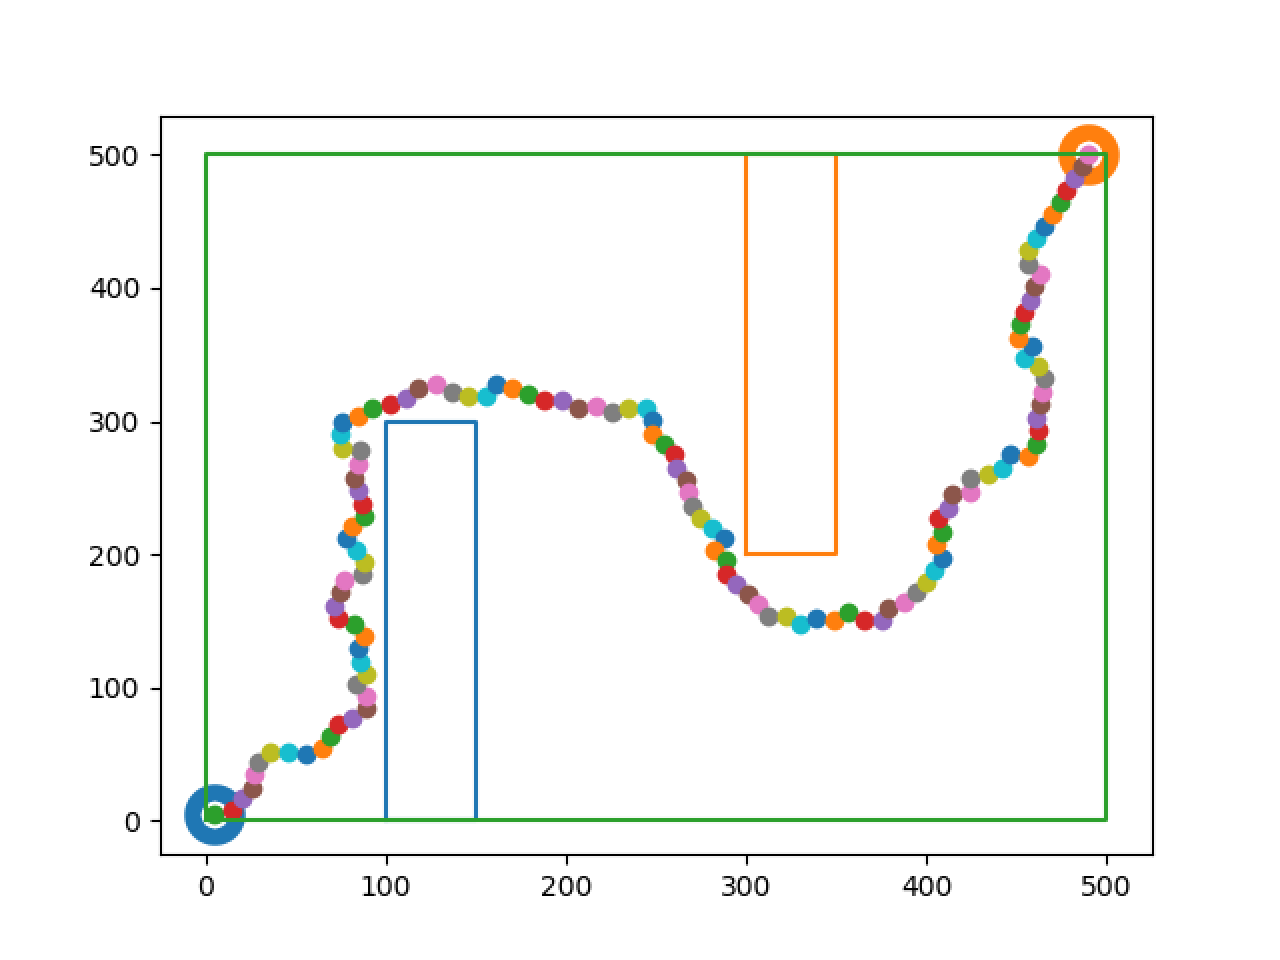
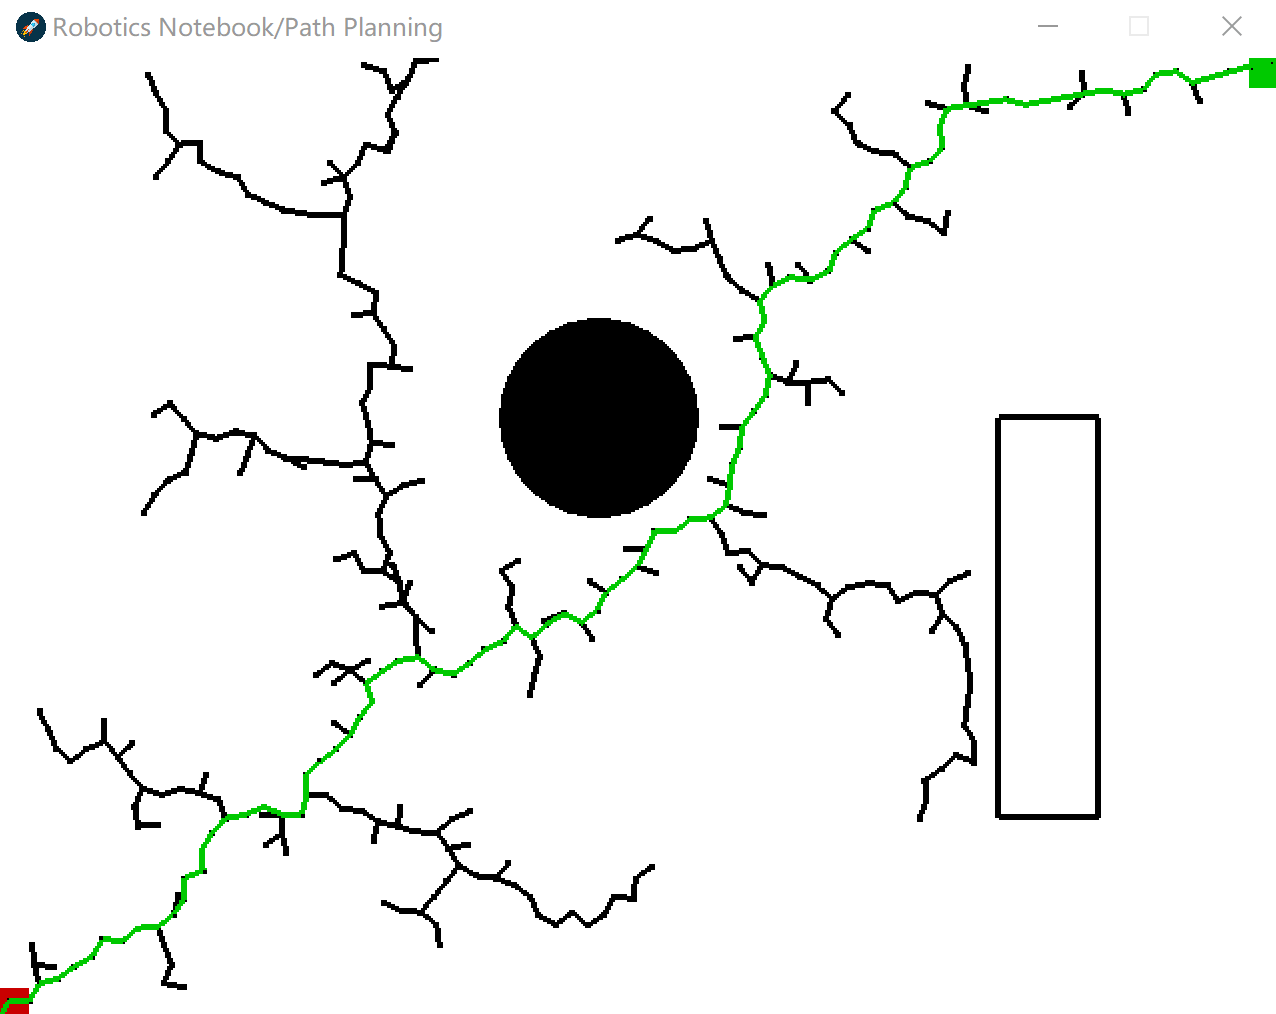
use new gui in rrt

diff --git a/PathPlanning/render.py b/PathPlanning/render.py
@@ -18,6 +18,7 @@ except ImportError as err:
     ''')
 
 import math
+import os
 
 class Viewer(object):
     def __init__(self, width=640, height=480, caption="Robotics Notebook/Path Planning", icon_file="icon.png"):
@@ -27,13 +28,14 @@ class Viewer(object):
         display = platform.get_default_display()
         # screen = display.get_default_screen()
         config = Config(double_buffer=True)
-        self.window = pyglet.window.Window(width=width, height=height, display=display,
+        self.window = pyglet.window.Window(width=int(width), height=int(height), display=display,
                                            config=config, caption=caption)
-        icon = pyglet.image.load(icon_file)
+        icon = pyglet.image.load(os.path.dirname(__file__) + '/' + icon_file)
         self.window.set_icon(icon)
         self.is_open = True
         self.window.on_close = self.close_viewer
         self.window.on_draw = self.draw
+        self.geoms = []
 
     def render(self):
         glClearColor(1,1,1,1)
@@ -42,6 +44,12 @@ class Viewer(object):
         self.window.dispatch_events()
         self.window.dispatch_event('on_draw')
         self.window.flip()
+
+    def add_geometry(self, type, **attrs):
+        if type == 'point':
+            self.geoms.append(Point(**attrs))
+        elif type == 'line':
+            self.geoms.append(Line(**attrs))
 
     def draw(self):
         self.draw_point(pos=(400, 300), color=(100, 0, 0), pointSize=3)
@@ -137,11 +145,13 @@ class Geom(object):
         self._color.color = (r, g, b)
 
 class Point(Geom):
-    def __init__(self, pos=(0,0), size=3):
+    def __init__(self, pos=(0,0), size=3, color=None):
         Geom.__init__(self)
         self._pos = pos
         self._pointSize = PointSize(size=size)
         self.add_attr(self._pointSize)
+        if color is not None:
+            self.set_color(*color)
     def render1(self):
         glBegin(GL_POINTS)
         glVertex2d(*self._pos)
@@ -150,12 +160,14 @@ class Point(Geom):
         self._pointSize.size = size
 
 class Line(Geom):
-    def __init__(self, start, end, width=3):
+    def __init__(self, start, end, width=3, color=None):
         Geom.__init__(self)
         self._start = start
         self._end = end
         self._lineWidth = LineWidth(width=width)
         self.add_attr(self._lineWidth)
+        if color is not None:
+            self.set_color(*color)
     def render1(self):
         glBegin(GL_LINES)
         glVertex2d(*self._start)
@@ -165,13 +177,15 @@ class Line(Geom):
         self._lineWidth.width = width
 
 class Circle(Geom):
-    def __init__(self, pos, radius, res=30, filled=True, width=3):
+    def __init__(self, pos, radius, res=30, filled=True, width=3, color=None):
         Geom.__init__(self)
         self._pos = pos
         self._radius = radius
         self._res = res
         self._filled = filled
         self._lineWidth = LineWidth(width=width)
+        if color is not None:
+            self.set_color(*color)
     def render1(self):
         if self._filled:
             glBegin(GL_POLYGON)
@@ -193,13 +207,15 @@ class Circle(Geom):
         self._lineWidth.width = width
 
 class Polygon(Geom):
-    def __init__(self, points, close=True, filled=False, width=3):
+    def __init__(self, points, close=True, filled=False, width=3, color=None):
         Geom.__init__(self)
         self._points = points
         self._close = close
         self._filled = filled
         self._lineWidth = LineWidth(width=width)
         self.add_attr(self._lineWidth)
+        if color is not None:
+            self.set_color(*color)
     def render1(self):
         if self._filled:
             if len(self._points) > 4:

diff --git a/PathPlanning/utils.py b/PathPlanning/utils.py
@@ -2,6 +2,7 @@
 collections of common structures
 """
 from PathPlanning.geometry import *
+from PathPlanning.render import Viewer
 
 class Node(object):
     def __init__(self, pos, parent=None, cost=0):
@@ -55,6 +56,9 @@ class RectangleObstacle(Obstacle):
     def type(self):
         return "rectangle"
 
+    def vertex(self):
+        return (self.left, self.down), (self.left, self.top), (self.right, self.top), (self.right, self.down)
+
     def dist(self, other):
         if other.x < self.left:
             if other.y > self.top:
@@ -82,7 +86,7 @@ class RectangleObstacle(Obstacle):
         return self.dist(other) <= avoidDist
 
 
-class Map(object):
+class Map(Viewer):
     def __init__(self, top, down, left, right):
         self.top = max(top, down)
         self.down = min(top, down)
@@ -90,10 +94,14 @@ class Map(object):
         self.right = max(left, right)
         self.length = math.fabs(left - right)
         self.width = math.fabs(top - down)
+        Viewer.__init__(self, width=self.length, height=self.width)
         self.obstacles = []
 
     def out_of_map(self, pos):
         return pos.x < self.left or pos.x > self.right or pos.y < self.down or pos.y > self.top
+
+    def add_obstacle(self, obs):
+        self.obstacles.append(obs)
 
     def check_collision(self, other, avoidDist):
         for obs in self.obstacles:
@@ -101,11 +109,22 @@ class Map(object):
                 return True
         return False
 
-
-class GridMap(Map):
-    def __init__(self, top, down, left, right, gridSize):
-        Map.__init__(top=top, down=down, left=left, right=right)
-        self.gridSize = gridSize
+    def draw(self):
+        # draw borders
+        # self.draw_line(start=(self.left, self.down), end=(self.left, self.top), lineWidth=5)
+        # self.draw_line(start=(self.left, self.top), end=(self.right, self.top), lineWidth=5)
+        # self.draw_line(start=(self.right, self.top), end=(self.right, self.down), lineWidth=5)
+        # self.draw_line(start=(self.right, self.down), end=(self.left, self.down), lineWidth=5)
+        # draw obstacles
+        for obs in self.obstacles:
+            if obs.type() == 'circle':
+                self.draw_circle(pos=obs.pos.tuple(), radius=obs.radius)
+            elif obs.type() == 'rectangle':
+                self.draw_polygon(points=obs.vertex(), )
+        # draw geoms
+        for geom in self.geoms:
+            geom.render()
+        self.geoms = []
 
 
 class PathPlanner(object):

diff --git a/PathPlanning/RRT/run.py b/PathPlanning/RRT/run.py
@@ -1,26 +1,24 @@
 from PathPlanning.RRT import RRTPlanner
-from PathPlanning.utils import Map, Point, RectangleObstacle
-import matplotlib.pyplot as plt
+from PathPlanning.utils import *
 
 def main():
-    # create the map
-    map = Map(500, 0, 0, 500)
-    map.obstacles.append(RectangleObstacle(300, 0, 100, 150))
-    map.obstacles.append(RectangleObstacle(500, 200, 300, 350))
-    plt.plot([100, 100, 150, 150, 100], [0, 300, 300, 0, 0])
-    plt.plot([300, 300, 350, 350, 300], [200, 500, 500, 200, 200])
-    plt.plot([0, 0, 500, 500, 0], [0, 500, 500, 0, 0])
-    # create the path planner
+    map = Map(top=480, down=0, left=0, right=640)
+    map.add_obstacle(CircleObstacle(pos=Point(300, 300), radius=50))
+    map.add_obstacle(RectangleObstacle(top=300, down=100, left=500, right=550))
+    start = Point(0, 0)
+    end = Point(640, 480)
     rrtPlanner = RRTPlanner(map, epsilon=0.05, stepSize=10)
-    # plan the pat0
-    start = Point(5, 5)
-    target = Point(490, 500)
-    rrtPlanner.plan(start, target)
-    plt.scatter(start.x, start.y, linewidths=16)
-    plt.scatter(target.x, target.y, linewidths=16)
-    for pos in rrtPlanner.finalPath:
-        plt.scatter(pos.x, pos.y)
-    plt.show()
+    rrtPlanner.plan(start=start, target=end)
+    while map.is_open:
+        map.add_geometry(type='point', pos=start.tuple(), size=30, color=(100, 0, 0))
+        map.add_geometry(type='point', pos=end.tuple(), size=30, color=(0, 100, 0))
+        for node in rrtPlanner.nodeList:
+            map.add_geometry(type='point', pos=node.pos.tuple())
+            if node.parent is not None:
+                map.add_geometry(type='line', start=node.parent.pos.tuple(), end=node.pos.tuple())
+        for i in range(len(rrtPlanner.finalPath)-1):
+            map.add_geometry(type='line', start=rrtPlanner.finalPath[i].tuple(), end=rrtPlanner.finalPath[i+1].tuple(), color=(0, 100, 0))
+        map.render()
 
 
 if __name__ == '__main__':

diff --git a/PathPlanning/geometry.py b/PathPlanning/geometry.py
@@ -20,6 +20,9 @@ class Point(object):
     def dir(self, other):
         return math.atan2(other.y - self.y, other.x - self.x)
 
+    def tuple(self):
+        return self.x, self.y
+
 
 class Vector(object):
     def __init__(self, x, y):

diff --git a/PathPlanning/RRT/RRT.py b/PathPlanning/RRT/RRT.py
@@ -1,7 +1,7 @@
 """
 RRT path planning implementation with python
 """
-from PathPlanning.utils import PathPlanner, Point, Node, Vector
+from PathPlanning.utils import *
 import random
 import math
 
